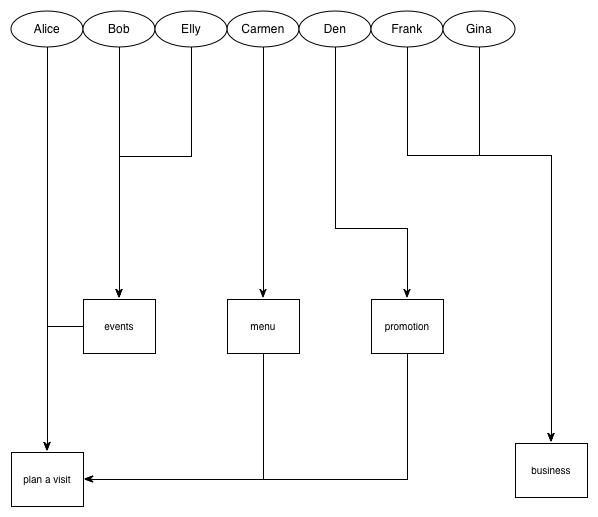
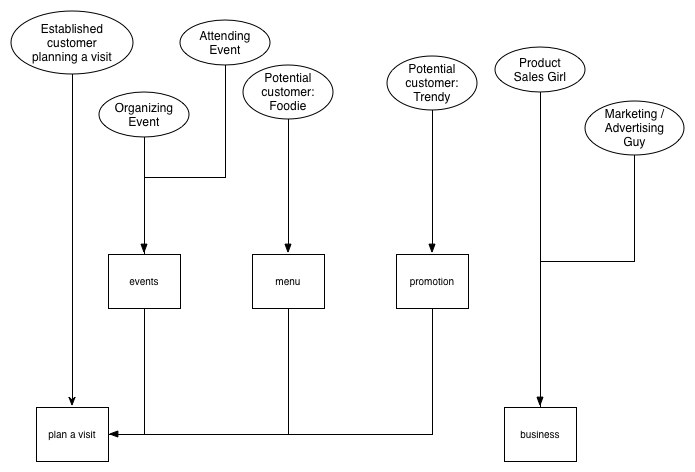
updated ix diagram

diff --git a/README.md b/README.md
@@ -28,7 +28,7 @@ https://raw.github.com/incompl/nom/master/ux/ia.png
 
 Happily, I noted that neither "About" nor "Contact" clusters appeared. Those notions are spread throughout the site and are not discrete, so it's hard to make clusters around them. This process is a helpful way to identify clusters with stronger identities.
 
-I decided to move forward assuming these clusters could map to pages on the site. The following is a rough Interaction Diagram using those pages, showing the flow through the site for each Persona's interaction or Story.
+I decided to move forward assuming these clusters could map to pages on the site. The following is a rough Interaction Diagram using those pages, showing the flow through the site for different types of users.
 
 https://github.com/incompl/nom/blob/master/ux/interaction.png
 
